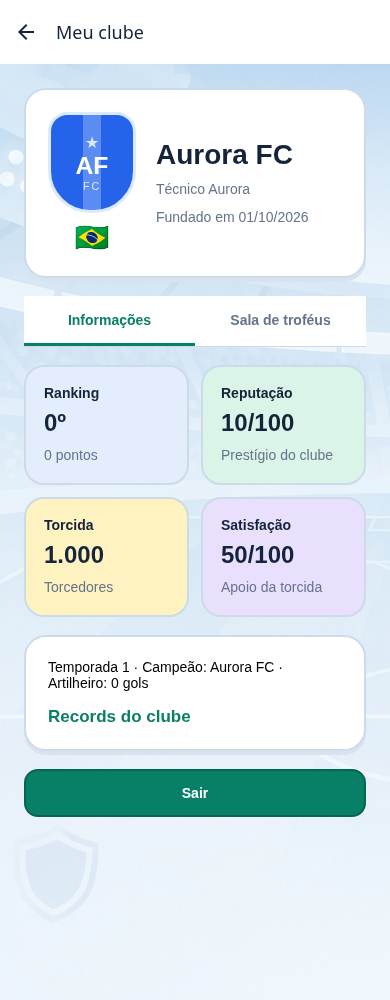
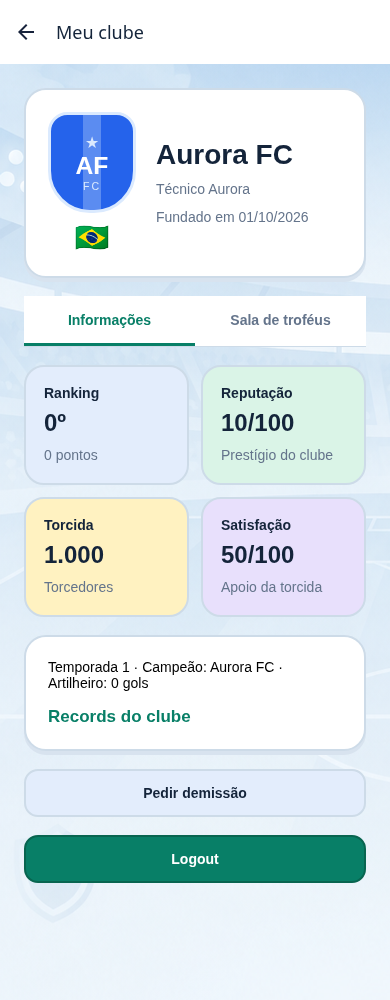
feat: detach coach and keep resigned club under bot control v1.0.0.23

Changed region(s): [[0.0615, 0.744, 0.9538, 0.899]]

diff --git a/mobile/src/screens/ClubScreen.tsx b/mobile/src/screens/ClubScreen.tsx
@@ -3,21 +3,35 @@ import { ScreenTabs } from '../components/ScreenTabs';
 import { useAuthStore } from '../stores/authStore';
 import { ClubBadge } from '../components/ClubBadge';
 import { useEffect, useState } from 'react';
-import { StyleSheet, Text, View } from 'react-native';
+import { Modal, StyleSheet, Text, View } from 'react-native';
 import { NativeStackScreenProps } from '@react-navigation/native-stack';
 import { RootStackParamList } from '../navigation/types';
 import { useClubDetailsStore } from '../stores/screenStores';
 import { useScreenRefresh } from '../components/useScreenRefresh';
 import { useClubStore } from '../stores/clubStore';
-import { ActionButton, Card, GamePage, palette } from '../components/GameUI';
+import { ActionButton, Card, GamePage, NotificationBubble, palette, useAction } from '../components/GameUI';
+import { clubService } from '../services/clubService';
+import { resetDomainStores } from '../stores/domainStore';
+import { useNotificationStore } from '../stores/notificationStore';
 export function ClubScreen({ route, navigation }: NativeStackScreenProps<RootStackParamList, 'Club'>) {
   const { data: club, ensure, loading, error } = useClubDetailsStore();
   const [tab, setTab] = useState('Informações');
+  const [confirmResignation, setConfirmResignation] = useState(false);
+  const action = useAction();
   const auth = useAuthStore();
   const own = useClubStore(state => state.data?.club?.id);
   useScreenRefresh(() => ensure(route.params.id), undefined, true, route.params.id);
   useEffect(() => { navigation.setOptions({ title: own === route.params.id ? 'Meu clube' : 'Clube' }); }, [navigation, own, route.params.id]);
-  return <GamePage loading={loading} error={error}>{club?.id === route.params.id && <>
+  async function resign() {
+    const session = useAuthStore.getState();
+    const id = route.params.id;
+    await clubService.resign(id);
+    if (useAuthStore.getState().user?.id !== session.user?.id || useClubStore.getState().data?.club?.id !== id) return;
+    resetDomainStores();
+    useClubStore.setState({ data: { club: null }, loading: false, error: null });
+    useNotificationStore.getState().show('Demissão confirmada. Crie seu novo clube para continuar.');
+  }
+  return <GamePage loading={loading} error={error || (!confirmResignation ? action.error : null)}>{club?.id === route.params.id && <>
     <Card><View style={styles.hero}>
       <View style={{ alignItems: 'center', gap: 8 }}><ClubBadge badge={club.badge} name={club.name} />
         <Text accessibilityLabel={`País: ${club.country?.name ?? club.country_id}`} style={{ fontSize: 28 }}>{countryFlag(club.country?.id ?? club.country_id)}</Text>
@@ -41,6 +55,10 @@ export function ClubScreen({ route, navigation }: NativeStackScreenProps<RootSta
       </View>)}
     </View>
     {own === club.id && <ClubHistory openPlayer={id => navigation.navigate('PlayerDetails', { id })} />}
+    {own === club.id && <>
+      <ActionButton title="Pedir demissão" secondary disabled={auth.loading || action.busy} onPress={() => setConfirmResignation(true)} />
+      <ActionButton title="Logout" disabled={auth.loading || action.busy} onPress={() => { void auth.logout(); }} />
+    </>}
     </>}
     {tab === 'Sala de troféus' && <Card>
       <Text style={styles.caption}>{club.trophies.length ? `${club.trophies.length} conquista${club.trophies.length > 1 ? 's' : ''}` : 'As próximas conquistas começam aqui.'}</Text>
@@ -49,7 +67,17 @@ export function ClubScreen({ route, navigation }: NativeStackScreenProps<RootSta
         return <Text key={index} style={styles.label}>🏆 {typeof name === 'string' ? name : `Título ${index + 1}`}</Text>;
       })}
     </Card>}
-    {own === club.id && <ActionButton title="Sair" disabled={auth.loading} onPress={() => { void auth.logout(); }} />}
+    <Modal visible={confirmResignation} transparent animationType="fade" onRequestClose={() => { if (!action.busy) setConfirmResignation(false); }}>
+      <View style={{ flex: 1, justifyContent: 'center', padding: 24, backgroundColor: '#14243a88' }}>
+        <View style={{ width: '100%', maxWidth: 450, alignSelf: 'center', padding: 24, gap: 18, borderRadius: 22, backgroundColor: '#fff' }}>
+          <Text style={{ color: palette.ink, fontSize: 22, fontWeight: '800' }}>Pedir demissão?</Text>
+          <Text style={styles.caption}>Você será desligado completamente do clube {club.name} e perderá o acesso à sua gestão e aos seus recursos. O clube, seus jogadores e seu histórico serão preservados. Um bot assumirá o controle. Deseja continuar?</Text>
+          <NotificationBubble message={action.error} />
+          <ActionButton title="Não" secondary disabled={action.busy} onPress={() => setConfirmResignation(false)} />
+          <ActionButton title={action.busy ? 'Confirmando…' : 'Sim'} disabled={action.busy} onPress={() => { void action.run(resign); }} />
+        </View>
+      </View>
+    </Modal>
   </>}</GamePage>;
 }
 

diff --git a/mobile/src/__tests__/game.test.tsx b/mobile/src/__tests__/game.test.tsx
@@ -118,10 +118,14 @@ test('club hides consultation and management shortcuts', async () => {
   expect(screen.getByLabelText('País: BR')).toHaveTextContent('🇧🇷');
   expect(props.navigation.setOptions).toHaveBeenCalledWith({ title: 'Meu clube' });
   expect(screen.getByRole('tab', { name: 'Informações', selected: true })).toBeTruthy();
+  expect(screen.getByRole('button', { name: 'Logout' })).toBeTruthy();
+  expect(screen.getByRole('button', { name: 'Pedir demissão' })).toBeTruthy();
   await fireEvent.press(screen.getByRole('tab', { name: 'Sala de troféus' }));
   expect(screen.queryByText('Records do clube')).toBeNull();
   expect(screen.getByText('As próximas conquistas começam aqui.')).toBeTruthy();
-  expect(screen.getByRole('button', { name: 'Sair' })).toBeTruthy();
+  expect(screen.queryByRole('button', { name: 'Sair' })).toBeNull();
+  expect(screen.queryByRole('button', { name: 'Logout' })).toBeNull();
+  expect(screen.queryByRole('button', { name: 'Pedir demissão' })).toBeNull();
 });
 
 test('country picker searches without accents and selects the result', async () => {
@@ -176,4 +180,41 @@ test('stadium upgrade refreshes capacity and facilities automatically', async ()
   await screen.findByText('Arquibancadas · nível 2');
   expect(screen.queryByText('Atualizar estádio')).toBeNull();
   expect(stadiumService.get).toHaveBeenCalledTimes(2);
+});
+
+test('resignation asks for confirmation and cancelling preserves the club', async () => {
+  useClubStore.setState({ data: { club } });
+  const props = { route: { params: { id: club.id } }, navigation: { setOptions: jest.fn(), navigate: jest.fn() } } as unknown as NativeStackScreenProps<RootStackParamList, 'Club'>;
+  await render(<ClubScreen {...props} />);
+  await fireEvent.press(await screen.findByRole('button', { name: 'Pedir demissão' }));
+  expect(screen.getByText(/seus jogadores e seu histórico serão preservados/)).toBeTruthy();
+  expect(clubService.resign).not.toHaveBeenCalled();
+  await fireEvent.press(screen.getByRole('button', { name: 'Não' }));
+  expect(useClubStore.getState().data?.club?.id).toBe(club.id);
+  expect(clubService.resign).not.toHaveBeenCalled();
+});
+
+test('confirmed resignation clears club data but keeps authentication and never auto-creates a club', async () => {
+  useAuthStore.setState({ authenticated: true });
+  useClubStore.setState({ data: { club } });
+  jest.mocked(clubService.resign).mockResolvedValue({ club: null });
+  const props = { route: { params: { id: club.id } }, navigation: { setOptions: jest.fn(), navigate: jest.fn() } } as unknown as NativeStackScreenProps<RootStackParamList, 'Club'>;
+  await render(<ClubScreen {...props} />);
+  await fireEvent.press(await screen.findByRole('button', { name: 'Pedir demissão' }));
+  await fireEvent.press(screen.getByRole('button', { name: 'Sim' }));
+  await waitFor(() => expect(useClubStore.getState().data).toEqual({ club: null }));
+  expect(useAuthStore.getState().authenticated).toBe(true);
+  expect(clubService.resign).toHaveBeenCalledWith(club.id);
+  expect(clubService.create).not.toHaveBeenCalled();
+});
+
+test('rejected resignation keeps the current club and displays the reason', async () => {
+  useClubStore.setState({ data: { club } });
+  jest.mocked(clubService.resign).mockRejectedValueOnce(new Error('Aguarde o fim da partida para pedir demissão.'));
+  const props = { route: { params: { id: club.id } }, navigation: { setOptions: jest.fn(), navigate: jest.fn() } } as unknown as NativeStackScreenProps<RootStackParamList, 'Club'>;
+  await render(<ClubScreen {...props} />);
+  await fireEvent.press(await screen.findByRole('button', { name: 'Pedir demissão' }));
+  await fireEvent.press(screen.getByRole('button', { name: 'Sim' }));
+  await screen.findByText('Aguarde o fim da partida para pedir demissão.');
+  expect(useClubStore.getState().data?.club?.id).toBe(club.id);
 });

diff --git a/mobile/src/navigation/AppNavigator.tsx b/mobile/src/navigation/AppNavigator.tsx
@@ -54,7 +54,7 @@ export function AppNavigator() {
   useEffect(() => {
     if (!auth.authenticated || !clubId) return;
     let active = true;
-    void prefetchGameData(clubId, () => active && useAuthStore.getState().authenticated);
+    void prefetchGameData(clubId, () => active && useAuthStore.getState().authenticated && useClubStore.getState().data?.club?.id === clubId);
     return () => { active = false; };
   }, [auth.authenticated, auth.user?.id, clubId]);
   useEffect(() => {

diff --git a/backend/tests/test_club_resignation.py b/backend/tests/test_club_resignation.py
@@ -17,7 +17,7 @@ def test_resignation_requires_confirmation_and_owner(client):
     assert client.get("/api/game/status", headers=owner).json()["club"]["id"] == club["id"]
 
 
-def test_resignation_inactivates_and_new_club_inherits_no_assets(client):
+def test_resignation_preserves_active_club_and_new_club_inherits_no_assets(client):
     owner = account(client, 1)
     club = create(client, owner)
     db = app.state.database
@@ -35,27 +35,52 @@ def test_resignation_inactivates_and_new_club_inherits_no_assets(client):
         json={"player_id": str(player["_id"]), "type": "sale", "price": 100000, "duration_days": 1},
     )
     assert listing.status_code == 201, listing.text
+    snapshots = {
+        collection: list(
+            db[collection].find(
+                {"owner_club_id": old} if collection == "players" else {"club_id": old}
+            )
+        )
+        for collection in ("players", "player_contracts", "club_history")
+    }
+    fixtures = list(db.matches.find({"$or": [{"home_club_id": old}, {"away_club_id": old}]}))
+    db.club_history.insert_one({"club_id": old, "title": "Histórico preservado"})
+    history = list(db.club_history.find({"club_id": old}))
     path = f"/api/clubs/{club['id']}/resign"
     response = client.post(path, headers=owner, json={"confirmed": True})
     assert response.status_code == 200 and response.json() == {"club": None}
     archived = db.clubs.find_one({"_id": old})
-    assert archived["active"] is False and archived["owner_user_id"] is None
-    assert not archived.get("is_bot")
+    assert archived["active"] is True and archived["owner_user_id"] is None
+    assert archived.get("is_bot") and archived.get("bot_takeover")
     assert db.club_finances.find_one({"_id": old})["balance"] == 987654321
     assert (
-        db.transfer_listings.find_one({"_id": ObjectId(listing.json()["id"])})["status"]
-        == "cancelled"
+        db.transfer_listings.find_one({"_id": ObjectId(listing.json()["id"])})["status"] == "active"
     )
-    assert CompetitionService.match_team(GameRepository(db), old) is None
+    assert CompetitionService.match_team(GameRepository(db), old) is not None
+    for collection in ("players", "player_contracts"):
+        query = {"owner_club_id": old} if collection == "players" else {"club_id": old}
+        assert list(db[collection].find(query)) == snapshots[collection]
+    assert list(db.club_history.find({"club_id": old})) == history
+    assert (
+        list(db.matches.find({"$or": [{"home_club_id": old}, {"away_club_id": old}]})) == fixtures
+    )
+    from app.models.game import utcnow
+    from app.services.bot_manager import BotManagerService
+
+    BotManagerService.prepare(GameRepository(db), old, utcnow())
+    assert db.bot_decisions.find_one({"club_id": old})
     assert client.get("/api/game/status", headers=owner).json() == {"club": None}
     assert client.get("/api/squad", headers=owner).status_code == 403
+    db.standings.update_one({"club_id": old}, {"$set": {"position": 999}})
     new = create(client, owner, "Clube novo")
     assert new["id"] != club["id"]
     assert client.get("/api/finance", headers=owner).json()["balance"] == 10000000
     assert players.isdisjoint(
         p["_id"] for p in db.players.find({"owner_club_id": ObjectId(new["id"])})
     )
-    # Retrying the previous club's request must never inactivate the newly created club.
+    assert db.season_clubs.find_one({"club_id": old})["bot_takeover"] is True
+    assert db.clubs.find_one({"_id": old})["active"] is True
+    # Retrying the previous club's request must never detach the newly created club.
     assert client.post(path, headers=owner, json={"confirmed": True}).status_code == 403
     assert client.get("/api/game/status", headers=owner).json()["club"]["id"] == new["id"]
 
@@ -74,7 +99,7 @@ def test_resignation_waits_for_live_match(client):
     db.matches.update_one({"_id": match["_id"]}, {"$set": {"status": "scheduled"}})
 
 
-def test_inactive_club_is_replaced_by_new_bot_next_season(client):
+def test_resigned_club_continues_as_the_same_bot_next_season(client):
     from app.services.competition import SeasonFinalizationService
 
     owner = account(client, 1)
@@ -96,6 +121,9 @@ def test_inactive_club_is_replaced_by_new_bot_next_season(client):
     assert upcoming["_id"] != season["_id"]
     slots = list(db.season_clubs.find({"season_id": upcoming["_id"]}))
     assert len(slots) == 20
-    assert all(slot["club_id"] != ObjectId(club["id"]) for slot in slots)
+    assert any(slot["club_id"] == ObjectId(club["id"]) and slot["bot_takeover"] for slot in slots)
     assert all(slot["is_bot"] for slot in slots)
-    assert db.clubs.find_one({"_id": ObjectId(club["id"])})["active"] is False
+    assert db.clubs.find_one({"_id": ObjectId(club["id"])})["active"] is True
+    new = create(client, owner, "Clube seguinte")
+    assert db.season_clubs.find_one({"season_id": upcoming["_id"], "club_id": ObjectId(club["id"])})
+    assert new["id"] != club["id"]

diff --git a/backend/app/services/game.py b/backend/app/services/game.py
@@ -48,28 +48,24 @@ class ClubService:
                 {"_id": club["_id"]},
                 {
                     "$set": {
-                        "active": False,
+                        "active": True,
+                        "is_bot": True,
+                        "bot_takeover": True,
                         "owner_user_id": None,
                         "previous_owner_user_id": ObjectId(user.id),
-                        "inactivated_at": now,
+                        "resigned_at": now,
                     },
                     "$inc": {"roster_revision": 1},
                 },
             )
-            repo.update_many(
-                "transfer_listings",
-                {"seller_club_id": club["_id"], "status": "active"},
-                {"$set": {"status": "cancelled"}},
-            )
-            repo.update_many(
-                "transfer_offers",
-                {
-                    "$or": [{"seller_club_id": club["_id"]}, {"buyer_club_id": club["_id"]}],
-                    "status": {"$in": ["pending", "counter_offer", "player_accepted"]},
-                },
-                {"$set": {"status": "cancelled"}},
-            )
-            # Club assets and finances remain archived; a new club receives its own initial data.
+            season = CompetitionService.current(repo)
+            for collection in ("season_clubs", "standings"):
+                repo.update_many(
+                    collection,
+                    {"club_id": club["_id"], "season_id": season["_id"] if season else None},
+                    {"$set": {"is_bot": True, "bot_takeover": True}},
+                )
+            # The same club and its assets continue under bot management.
             return {"club": None}
 
         return self.repo.transaction(operation)

diff --git a/backend/app/services/competition.py b/backend/app/services/competition.py
@@ -212,6 +212,7 @@ class CompetitionService:
             "division_id": division["_id"],
             "club_id": club["_id"],
             "is_bot": club.get("is_bot", False),
+            "bot_takeover": club.get("bot_takeover", False),
             "previous_club_ids": [],
         }
         repo.insert("season_clubs", slot)
@@ -224,6 +225,7 @@ class CompetitionService:
                 "club_id": club["_id"],
                 "club_name": club["name"],
                 "is_bot": slot["is_bot"],
+                "bot_takeover": slot.get("bot_takeover", False),
                 "games": 0,
                 "wins": 0,
                 "draws": 0,
@@ -300,7 +302,12 @@ class CompetitionService:
         for division in divisions:
             bots = repo.many(
                 "standings",
-                {"season_id": season["_id"], "division_id": division["_id"], "is_bot": True},
+                {
+                    "season_id": season["_id"],
+                    "division_id": division["_id"],
+                    "is_bot": True,
+                    "bot_takeover": {"$ne": True},
+                },
                 limit=None,
                 sort=[
                     ("position", -1 if config.BOT_REPLACEMENT_STRATEGY == "lowest_ranked" else 1)
